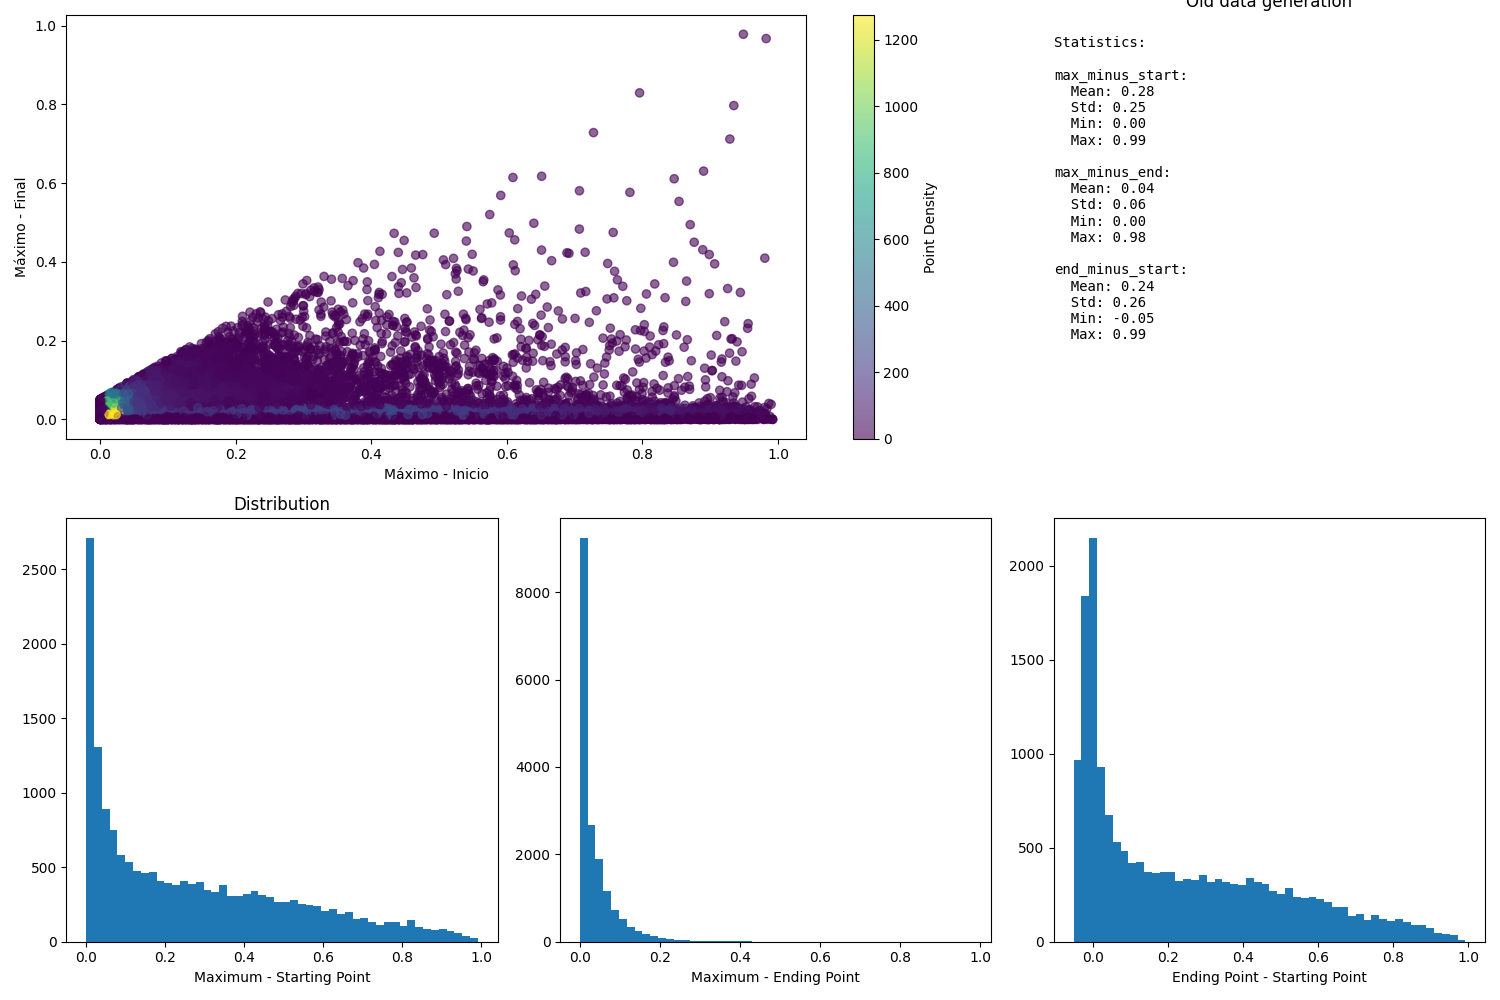
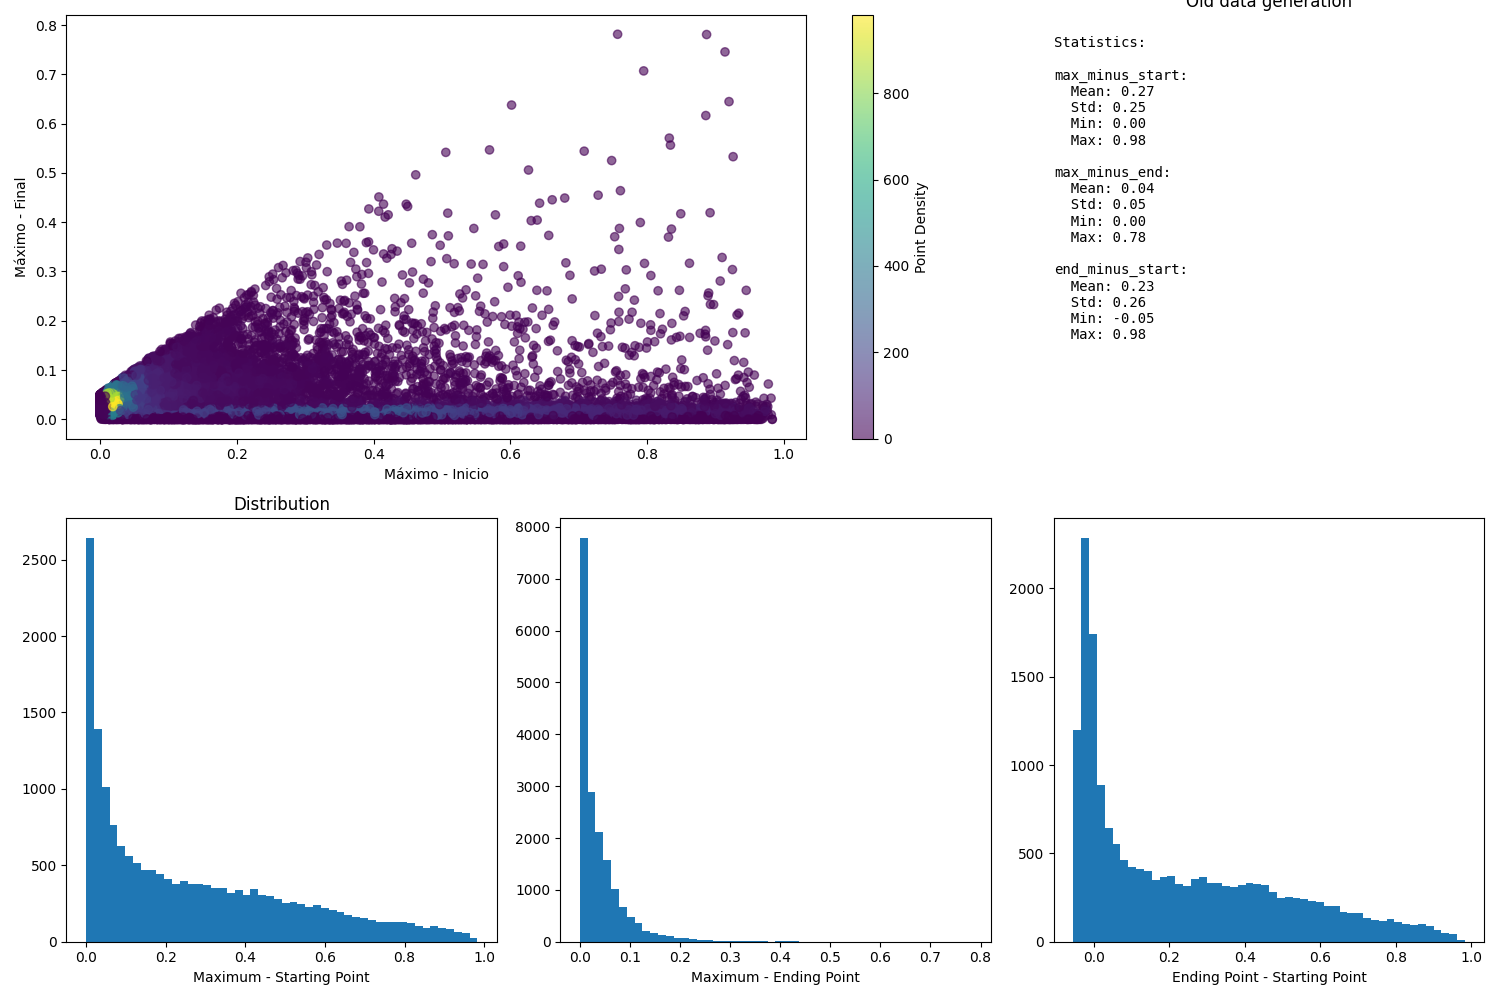
New distribution

diff --git a/data_generation/generate_family.py b/data_generation/generate_family.py
@@ -23,7 +23,7 @@ def generate_data(num_curves, seed, name='TRAIN'):
         # Parameters of the dynamics:
         NBR_IT = 129  # Number of iterations
         TAU = 0.093  # Time step
-        x_init = np.random.random(N) * 0.1  # Initial condition
+        x_init = np.random.uniform(0.05, 0.2, N)  # Initial condition
         r = np.random.uniform(0.2, 1, N)
 
         # Compute the dynamics:
